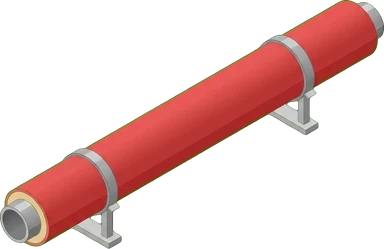
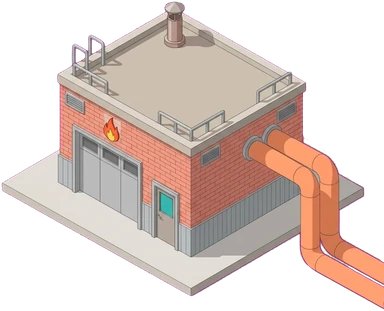
L7.2: heat network shown as a Gemini heat station against the plant

diff --git a/apps/game/src/play/iso/town.ts b/apps/game/src/play/iso/town.ts
@@ -80,13 +80,15 @@ export const FULL_VIEWBOX = '-360 -170 1960 1300';
 
 /**
  * Plot of each shop building (lot L6.2): tile (c, r) and width of the picture as a share of a tile. A grass tile until
- * it is bought, then the same picture as in the shop. All plots stand in the lots seen in the band of the play screen.
+ * it is bought, then the same picture as in the shop. All plots stand in the lots seen in the band of the play screen,
+ * except the heat station, on the plant's concrete.
  * Isolation is the woolly hat on the chimney of the Lilas house; the cycle track turns the roads into cycle-track
  * tiles; street lights are the Gemini lamp-post at the crossroads.
  */
 export const PLOTS: Readonly<Record<string, { c: number; r: number; size: number }>> = {
   ferme: { c: 3, r: 3, size: 0.95 },
-  'reseau-chaleur': { c: 3, r: 4, size: 0.9 },
+  // The heat station stands against the plant, by the fuel store, its pipes towards the town (Yann, 2026-11-10).
+  'reseau-chaleur': { c: 1, r: 9, size: 0.95 },
   'maison-lilas': { c: 4, r: 4, size: 0.8 },
   'maison-ve': { c: 4, r: 3, size: 0.9 },
   epicerie: { c: 6, r: 3, size: 0.85 },

diff --git a/apps/game/test/town.test.ts b/apps/game/test/town.test.ts
@@ -119,7 +119,7 @@ describe('shop buildings in the town (lots L6.2, L6.3)', () => {
     expect(new Set(cells).size).toBe(cells.length);
     const [bx, by, bw, bh] = BAND_VIEWBOX.split(' ').map(Number) as [number, number, number, number];
     for (const [id, p] of Object.entries(PLOTS)) {
-      expect(isLot(p.c, p.r), id).toBe(true);
+      expect(isLot(p.c, p.r) || (id === 'reseau-chaleur' && p.c === 1), id).toBe(true);
       const [x, y] = tileCentre(p.c, p.r);
       expect(x, id).toBeGreaterThan(bx + 80);
       expect(x, id).toBeLessThan(bx + bw - 80);

diff --git a/docs/GEMINI.md b/docs/GEMINI.md
@@ -355,3 +355,15 @@ Dans exactement le même style que l'image jointe (illustration vectorielle isom
 Dans exactement le même style que l'image jointe (illustration vectorielle isométrique 2:1, aplats propres, ombrage doux, lumière haut-gauche, palette pastel), dessine un seul objet : un immeuble de 4 étages rose pâle, toit en ardoise gris foncé avec lucarnes, balcons blancs, sur un socle trottoir gris très clair. Sans sol ni socle sous l'objet. Métaux en gris neutre. Fond uni vert #00FF00. Format PNG carré 1024x1024, fichier .png obligatoire (pas de JPG), objet centré sur 80 % de la hauteur. Aucun texte, aucune lettre, aucun chiffre.
 ```
 
+## 6. Série 4 : bâtiment du réseau de chaleur (2026-11-10)
+*Demande de Yann : la tuile avec un tuyau pour dire qu'on a un réseau de chaleur est moche ; il faut plutôt un bâtiment
+collé à la centrale.* L'image remplacera `reseau-chaleur` dans la boutique et dans la ville ; Claude la place contre la
+centrale (côté ville) au lieu du terrain actuel.
+**Livrée par Yann le 2026-11-10** (fond magenta), détourée dans `assets/gemini/asset_64_reseau_chaleur.png`, intégrée :
+`assets/objets/reseau-chaleur.webp`, terrain sur le béton de la centrale à côté du stock de combustible (case 1,9).
+
+**asset_64_reseau_chaleur.png**
+
+```
+Dans exactement le même style que l'image jointe (illustration vectorielle isométrique 2:1, aplats propres, ombrage doux, lumière haut-gauche, palette pastel, vitres turquoise), dessine un seul objet : la station de chaleur d'une centrale, un bâtiment industriel bas et compact en briques rouge clair et bardage gris, toit plat avec une petite cheminée sans fumée, une grande porte de garage, et sur le côté droit trois gros tuyaux calorifugés orange qui sortent du mur, font un coude et partent vers le bas à droite de l'image, coupés net comme s'ils continuaient sous la ville. Un petit logo de flamme sans texte sur la façade. Posé sur un socle de béton gris clair en losange, sans herbe. Métaux en gris neutre. Fond uni magenta #FF00FF, sans décor ni ombre portée sur le fond. Format PNG carré 1024x1024, fichier .png obligatoire (pas de JPG), objet centré sur 75 % de la largeur. Aucun texte, aucune lettre, aucun chiffre.
+```

diff --git a/assets/SOURCES.md b/assets/SOURCES.md
@@ -42,7 +42,7 @@ enfants 42, balançoire 43, oiseaux 44 ; série 3 : voitures 48 à 51, bus 52, h
 
 ## Bâtiments de la boutique (`objets/`) — 2026-11-09 (lot L6.1)
 15 images WebP (384 px au plus depuis le lot L6.2, 351 Ko en tout), réduites par Claude à partir des PNG Gemini de `gemini/` (images IA,
-même point ouvert que Cassandra avant diffusion) : ferme ← `asset_25_ferme_moderne`, reseau-chaleur ← `asset_39_tuyau_chaleur`,
+même point ouvert que Cassandra avant diffusion) : ferme ← `asset_25_ferme_moderne`, reseau-chaleur ← `asset_64_reseau_chaleur` (station de chaleur collée à la centrale, 2026-11-10 ; avant : `asset_39_tuyau_chaleur`),
 maison-lilas ← `asset_26`, maison-ve ← `asset_27`, epicerie ← `asset_28`, ecole ← `asset_29`, usine-cereales ← `asset_13_usine_1`,
 maison-medicale ← `asset_30`, batterie ← `asset_31`, parc ← `asset_32_parc_arbore`, piscine ← `asset_33`,
 isolation ← `asset_46_bonnet_laine_cheminee`, solaire ← `asset_35`, hopital ← `asset_14_hopital`, cuve ← `asset_34`.
